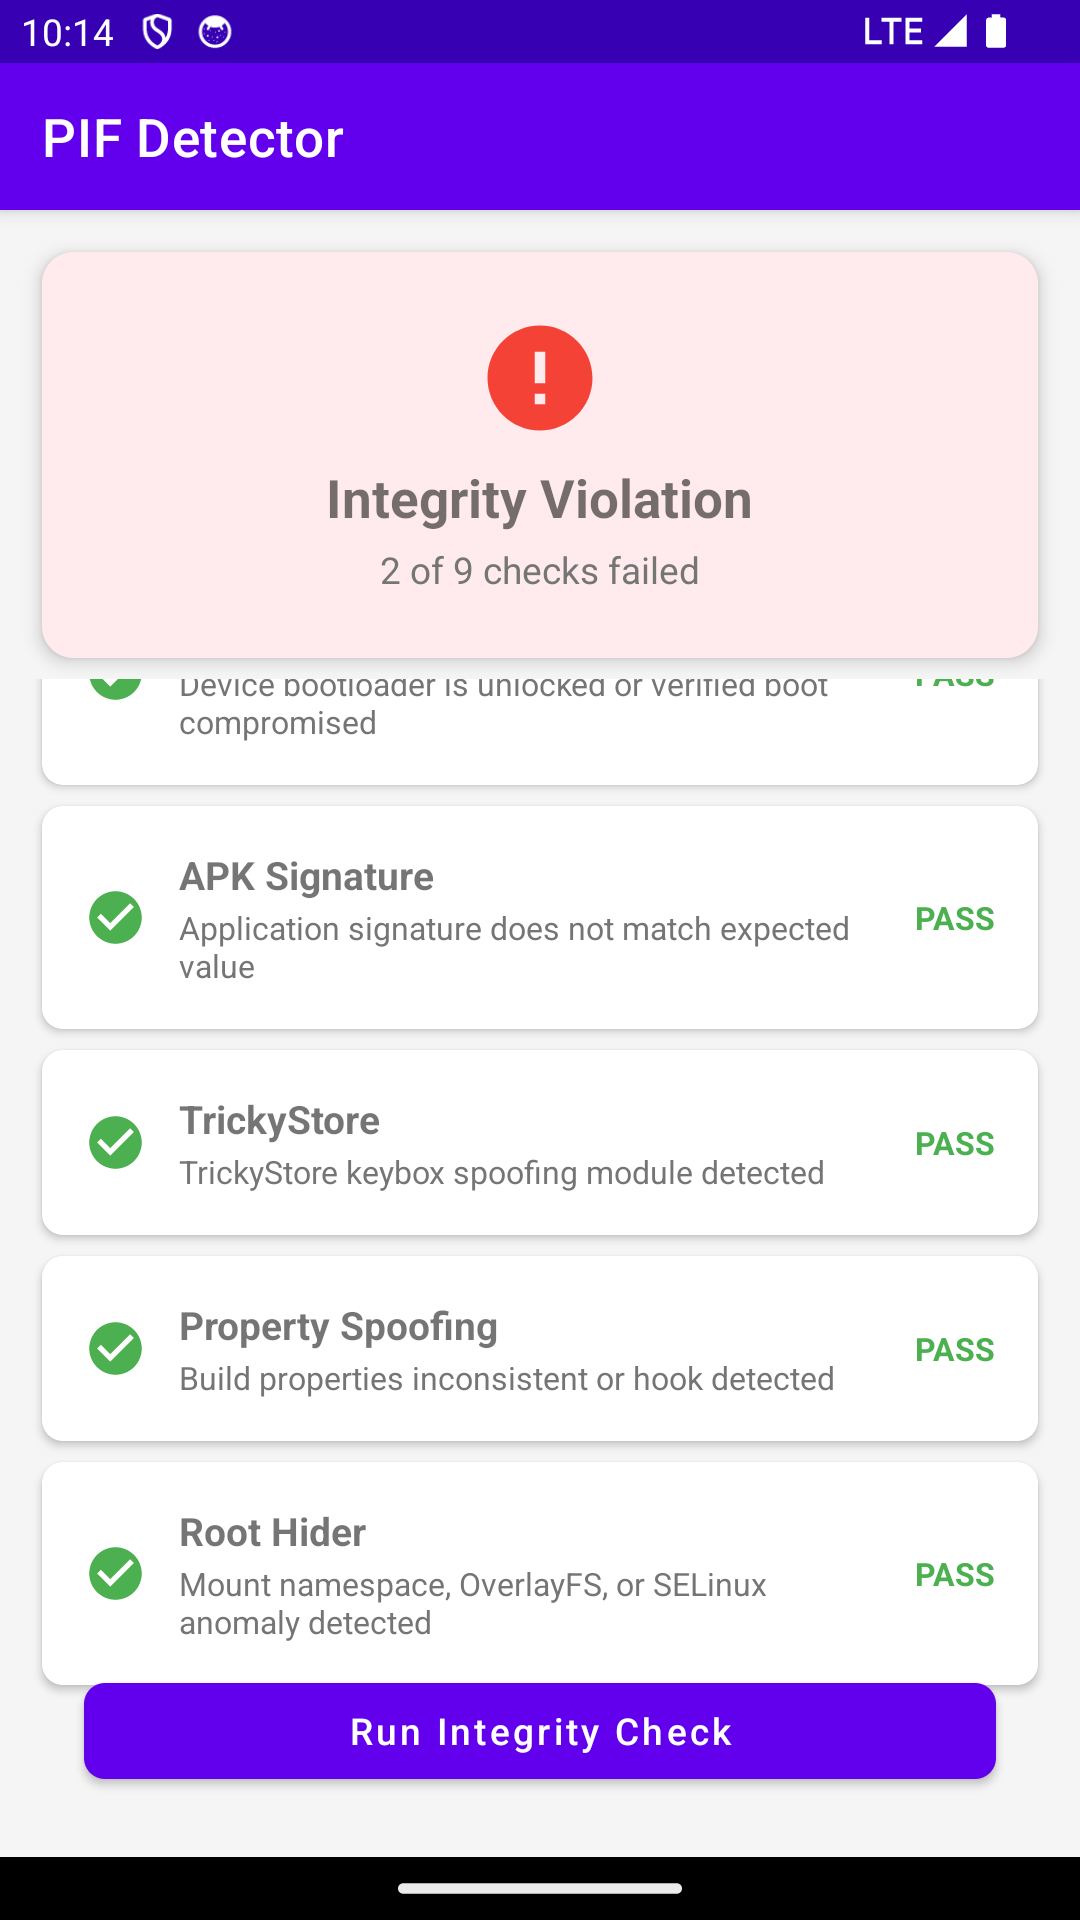
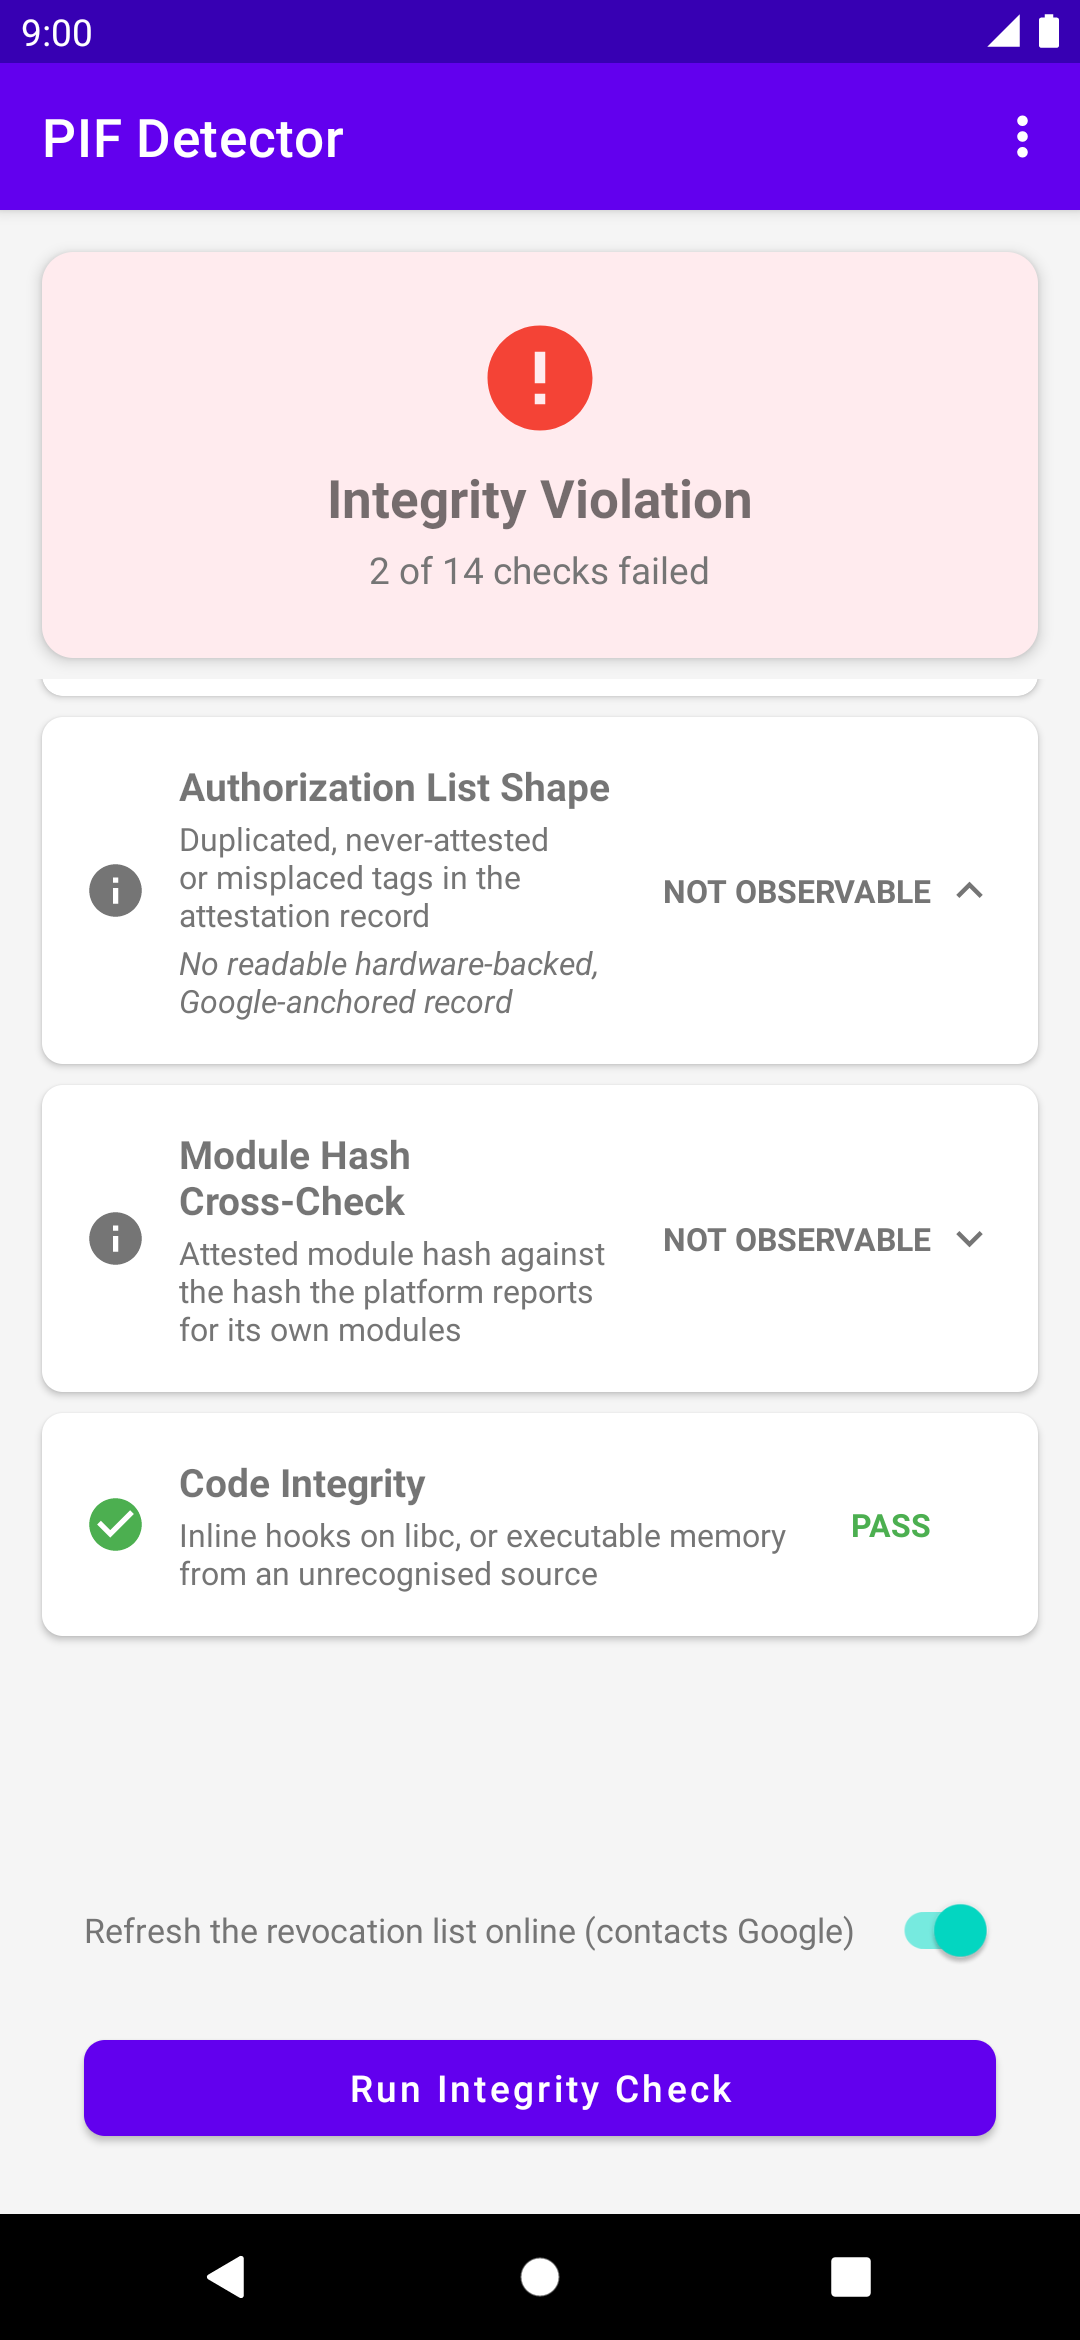
docs: Replace the screenshots with the 3.3 screen
The two screenshots dated from March and showed nine checks, no
reasons and no overflow menu.

Both are now the 3.3 release build on the userdebug API 30 emulator,
where the su binary and ro.debuggable are real findings. The display
was set to 1080x2340 for the capture, the shape of a current phone, so
five rows fit above the controls. The top one has a detected row
expanded to its reason, and the bottom one has a row that is not
observable expanded to say why.

diff --git a/README.md b/README.md
@@ -16,6 +16,8 @@ The load-bearing signal is key attestation. Every Zygisk PIF fork gates on the t
   <img src="screenshots/results_bottom.png" width="300" alt="Detection results - bottom" />
 </p>
 
+<p align="center"><sub>3.3 on a userdebug API 30 emulator image, which really does ship an su binary and set <code>ro.debuggable</code>. Tapping a row shows what the engine saw.</sub></p>
+
 ## What it detects
 
 - **Play Integrity Fix:** maps scan for PIF classes & `InMemoryDexClassLoader` DEX regions, `custom.pif.prop`/`custom.pif.json`, module dirs, known props
